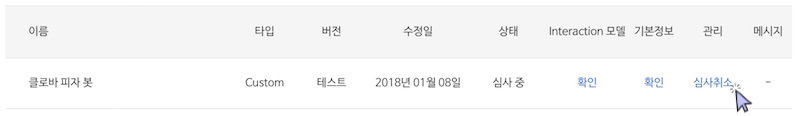
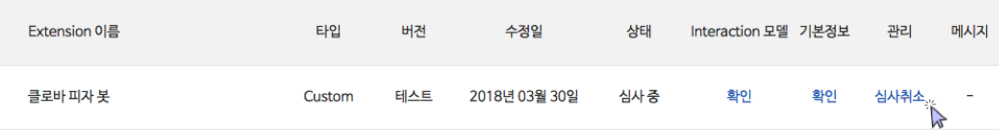
Apply UI changes to image files
Former-commit-id: cb06b18f31922a8c47351c7089f02ca1d8841942 [formerly 9cf699f9b835f5afbba60a496d95e0ca79482682]
Former-commit-id: eb4f4a15f81e756f52ea197f41bb5d0d1e138fa5

diff --git a/ko/README.md b/ko/README.md
@@ -28,6 +28,7 @@
           <li>[CIC] 사용자가 설정한 임의의 명령을 실행할 수 있는 <a href="/CIC/References/CICInterface/PlaybackController.html#CustomCommandIssued">CustomCommandIssued</a> 이벤트 메시지를 <a href="/CIC/References/CICInterface/PlaybackController.html#CustomCommandIssued">PlaybackController</a> 네임스페이스에 추가</li>
           <li>[CEK] Clova Home API에 CloseConfirmation 외 47건의 <a href="/CEK/References/ClovaHomeInterface/Control_Interfaces.html">Control API</a>와 약 10종의 <a href="/CEK/References/ClovaHomeInterface/Shared_Objects.html">공유 객체</a> 추가</li>
           <li>[CEK] Clova Home API <a href="/CEK/References/ClovaHomeInterface/Shared_Objects.html#ApplianceInfoObject">지원 기기</a> 30종 추가</li>
+          <li>[Dev. Console] Clova developer console의 일부 UI 업데이트 적용</li>
         </ul>
       </td>
     </tr>

diff --git a/ko/DevConsole/Guides/CEK/Register_Extension.md b/ko/DevConsole/Guides/CEK/Register_Extension.md
@@ -48,7 +48,7 @@ Extension을 등록하는 과정에서 가장 먼저 할 일은 등록할 extens
 
 Extension 기본 정보 입력이 끝나면 생성된 Extension의 정보를 수정하는 화면으로 전환됩니다. 이때부터 페이지 하단에 있는 **{{ book.DevConsole.cek_save }}** 버튼을 클릭하여 중간 내용을 언제든지 저장할 수 있으며, 다음과 같이 CEK 메뉴에서 등록된 Extension 목록을 확인할 수 있습니다.
 
-![](/DevConsole/Resources/Images/DevConsole-Extension_List_after_Creation.png)
+![](/DevConsole/Resources/Images/DevConsole-Extension_List_After_Creation.png)
 
 ## 서버 연동 설정 {#SetServerConnection}
 

diff --git a/en/DevConsole/Guides/CEK/Register_Extension.md b/en/DevConsole/Guides/CEK/Register_Extension.md
@@ -48,7 +48,7 @@ Follow the steps below to register the extension:
 
 When you complete entering the basic extension information, you are directed to the screen to edit this information. From this point, you can press the **{{ book.DevConsole.cek_save }}** button at the bottom of the page at any time to save the changed details. You can also find the list of registered extensions in the CEK menu as shown below.
 
-![](/DevConsole/Resources/Images/DevConsole-Extension_List_after_Creation.png)
+![](/DevConsole/Resources/Images/DevConsole-Extension_List_After_Creation.png)
 
 ## Setting up a server connection {#SetServerConnection}
 
